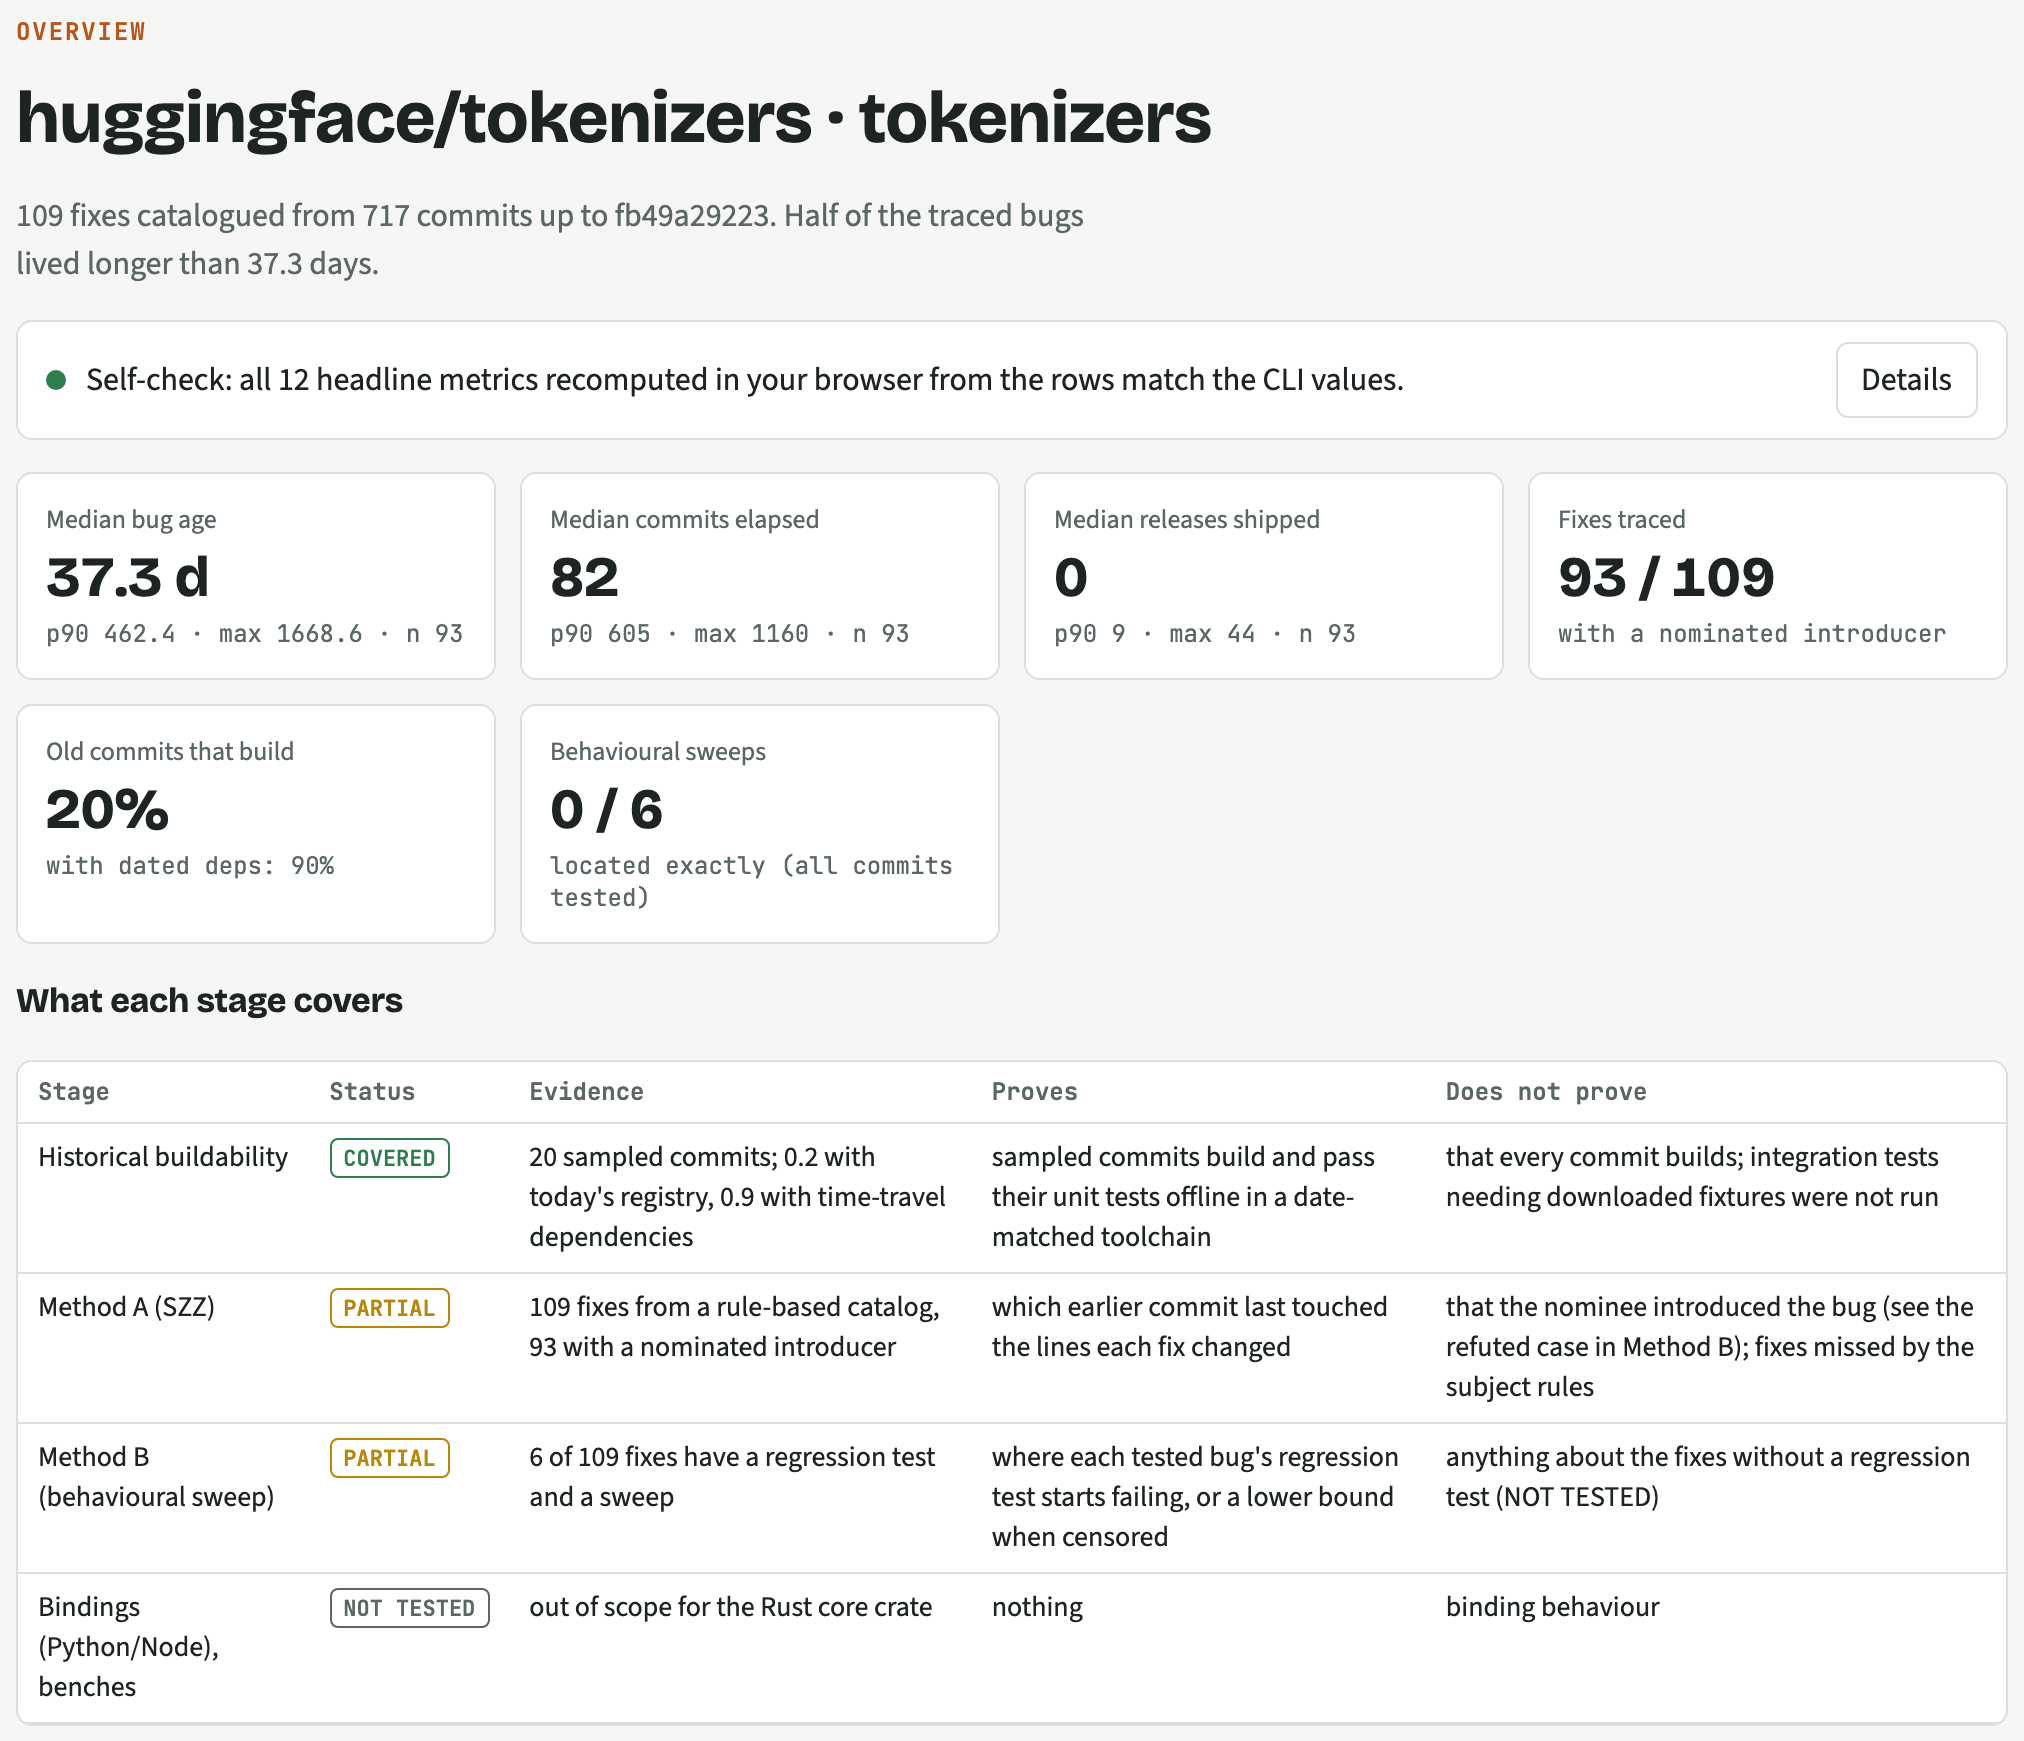
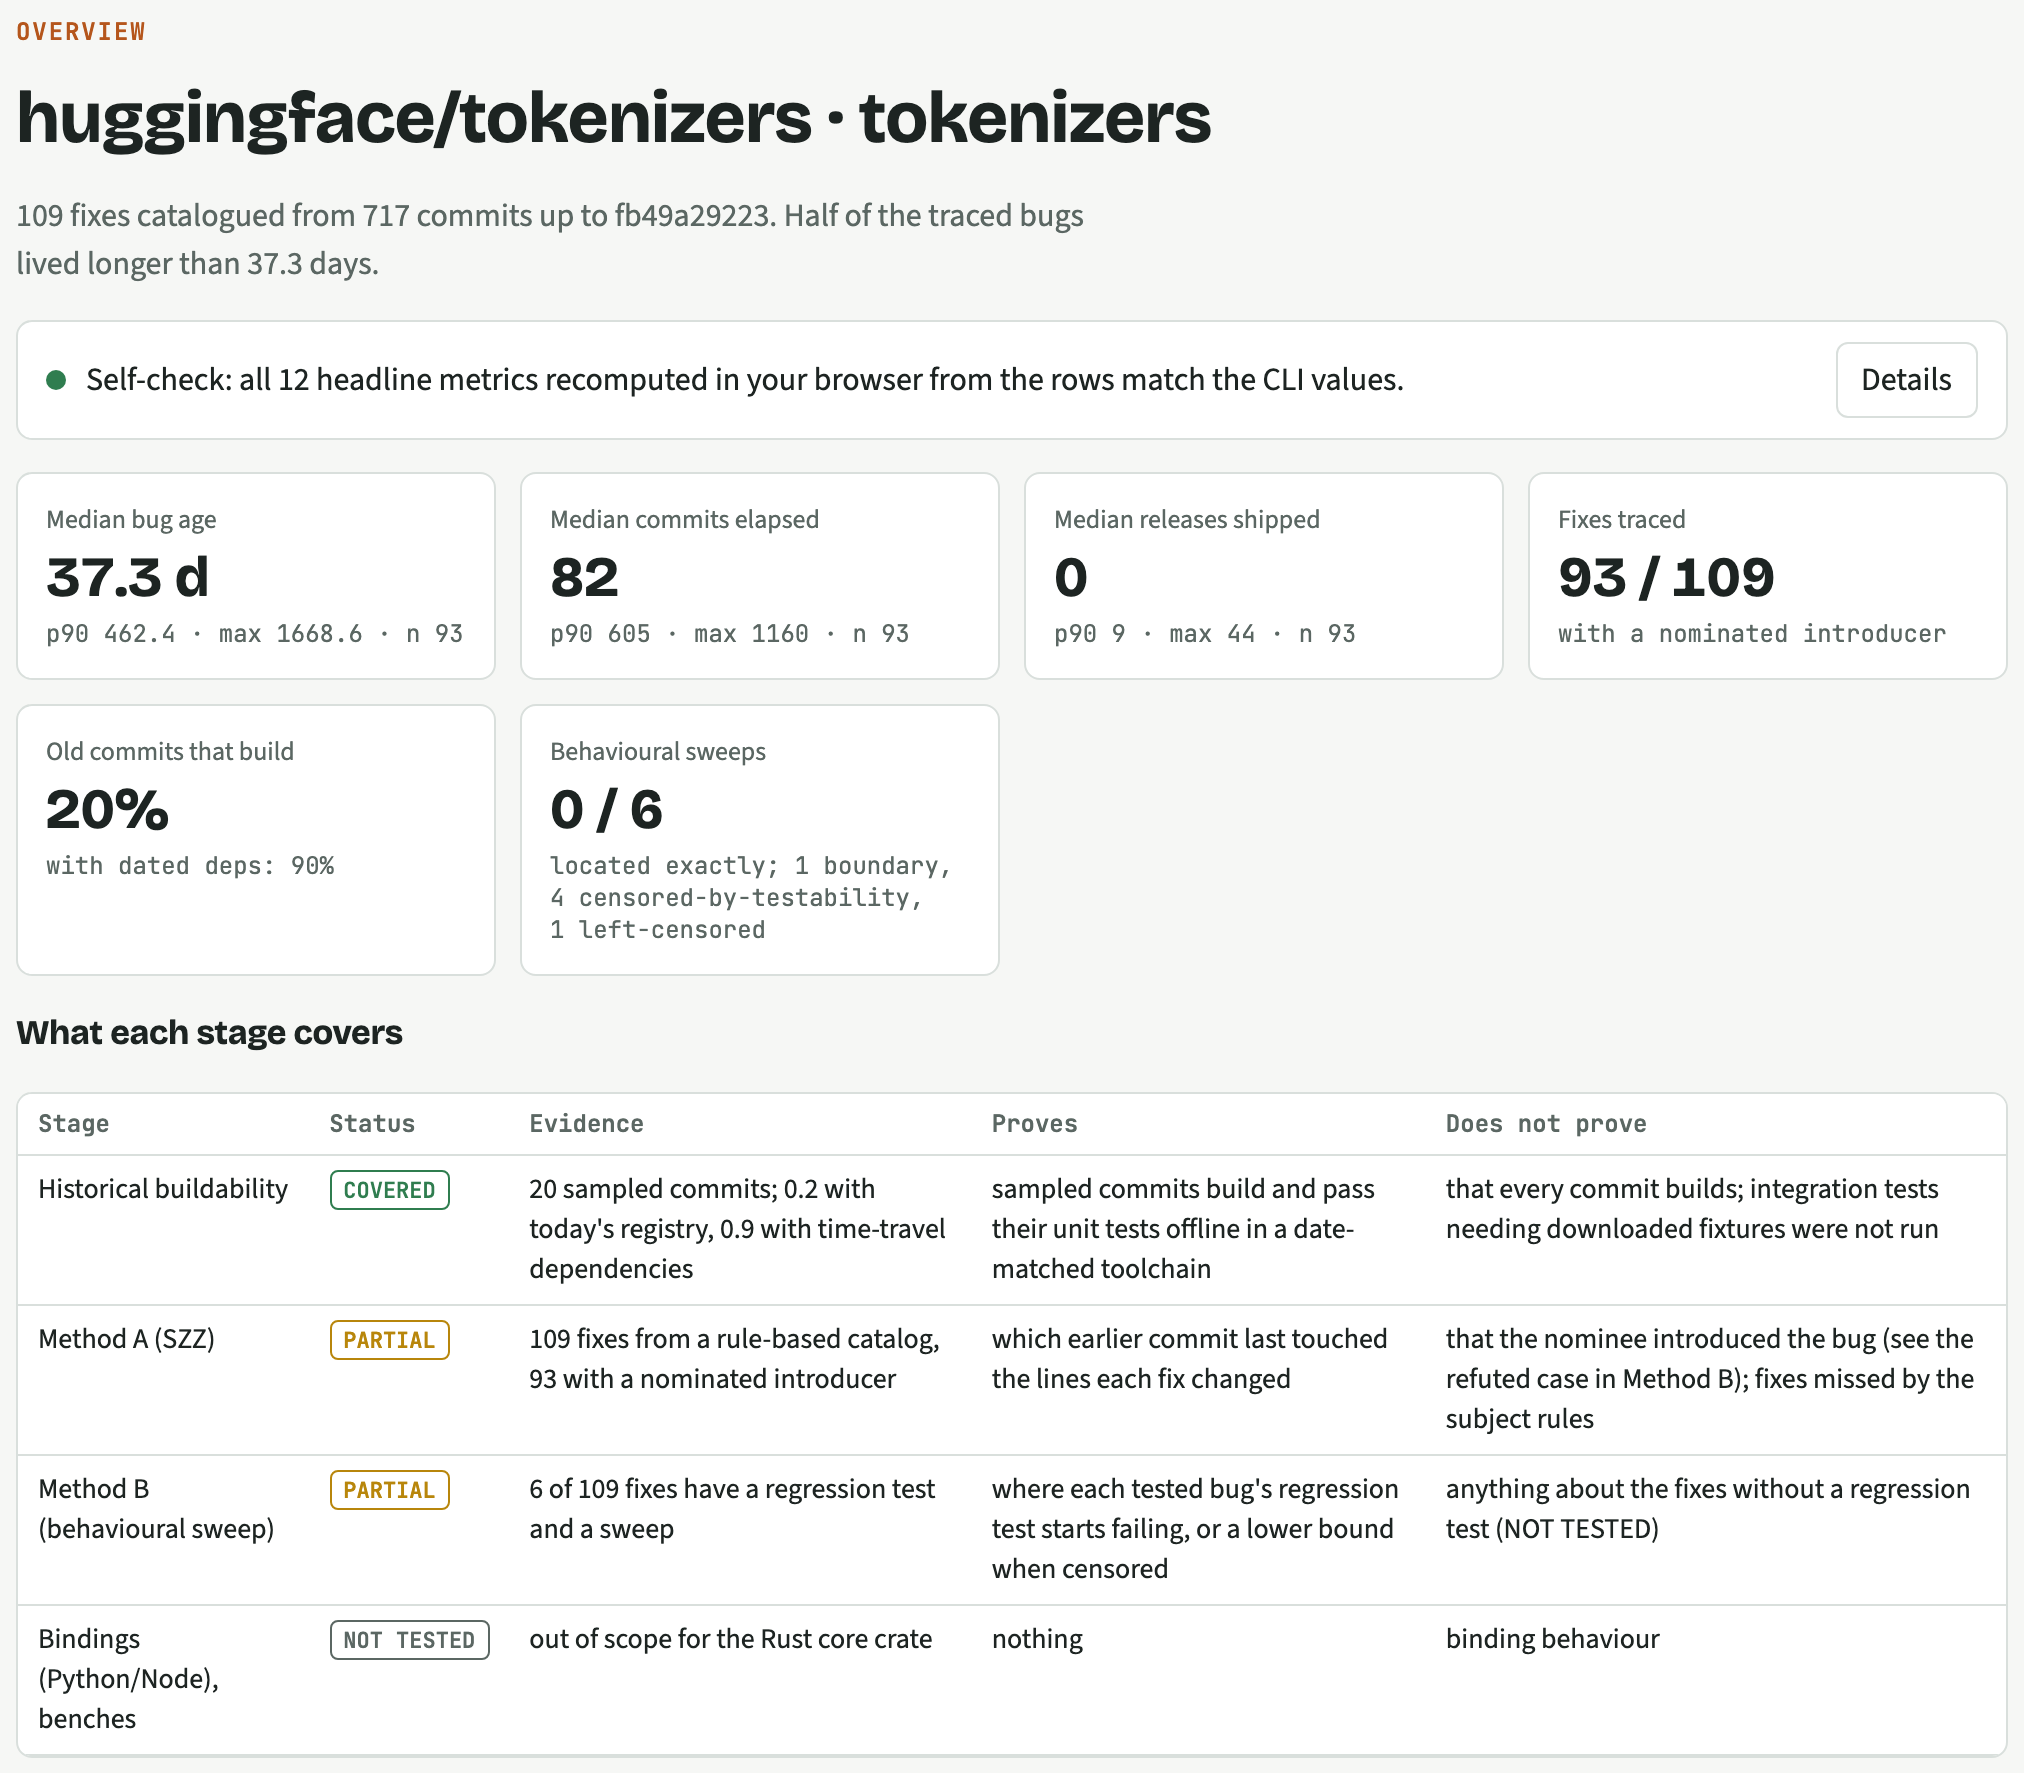
HNET-918: sweeps card shows what the sweeps found
The caption 'located exactly (all commits tested)' read as if every commit was tested, and hid the verdicts. It now reads 'located exactly; 1 boundary, 4 censored-by-testability, 1 left-censored', from the bundle's verdict counts. Explorer rebuilt and the overview figure recaptured.

diff --git a/bug_age/data/explorer.html b/bug_age/data/explorer.html
@@ -442,7 +442,10 @@ function renderOverview() {
     ["Median releases shipped", a.releases_shipped_bug ? fmt(a.releases_shipped_bug.median) : "—", st(a.releases_shipped_bug), "method_a.releases_shipped_bug"],
     ["Fixes traced", `${a.with_introducer} / ${a.fixes}`, "with a nominated introducer", "method_a.with_introducer"],
     ["Old commits that build", f.baseline_share == null ? "NOT TESTED" : Math.round(f.baseline_share * 100) + "%", f.time_travel_share == null ? "time-travel: not run" : `with dated deps: ${Math.round(f.time_travel_share * 100)}%`, "feasibility.baseline_share"],
-    ["Behavioural sweeps", b.swept ? `${b.located} / ${b.swept}` : "NOT TESTED", b.swept ? "located exactly (all commits tested)" : "no regression tests yet", "method_b.swept"],
+    // What the sweeps found, by verdict, so a low located count is not read as nothing found.
+    ["Behavioural sweeps", b.swept ? `${b.located} / ${b.swept}` : "NOT TESTED",
+      b.swept ? ["located exactly", Object.entries(b.verdicts || {}).filter(([v]) => v !== "located").map(([v, n]) => `${n} ${v}`).join(", ")].filter(Boolean).join("; ")
+        : "no regression tests yet", "method_b.swept"],
   ];
   $("tiles").replaceChildren(...tiles.map(([k, v, sub, path]) => el("button", { class: "tile", type: "button", onclick: () => openDrawer(k, evidenceForCheck(path)) },
     el("span", { class: "k" }, k), el("span", { class: "v" }, v), el("span", { class: "s" }, sub))));

diff --git a/dist/explorer/index.html b/dist/explorer/index.html
@@ -445,7 +445,10 @@ function renderOverview() {
     ["Median releases shipped", a.releases_shipped_bug ? fmt(a.releases_shipped_bug.median) : "—", st(a.releases_shipped_bug), "method_a.releases_shipped_bug"],
     ["Fixes traced", `${a.with_introducer} / ${a.fixes}`, "with a nominated introducer", "method_a.with_introducer"],
     ["Old commits that build", f.baseline_share == null ? "NOT TESTED" : Math.round(f.baseline_share * 100) + "%", f.time_travel_share == null ? "time-travel: not run" : `with dated deps: ${Math.round(f.time_travel_share * 100)}%`, "feasibility.baseline_share"],
-    ["Behavioural sweeps", b.swept ? `${b.located} / ${b.swept}` : "NOT TESTED", b.swept ? "located exactly (all commits tested)" : "no regression tests yet", "method_b.swept"],
+    // What the sweeps found, by verdict, so a low located count is not read as nothing found.
+    ["Behavioural sweeps", b.swept ? `${b.located} / ${b.swept}` : "NOT TESTED",
+      b.swept ? ["located exactly", Object.entries(b.verdicts || {}).filter(([v]) => v !== "located").map(([v, n]) => `${n} ${v}`).join(", ")].filter(Boolean).join("; ")
+        : "no regression tests yet", "method_b.swept"],
   ];
   $("tiles").replaceChildren(...tiles.map(([k, v, sub, path]) => el("button", { class: "tile", type: "button", onclick: () => openDrawer(k, evidenceForCheck(path)) },
     el("span", { class: "k" }, k), el("span", { class: "v" }, v), el("span", { class: "s" }, sub))));
